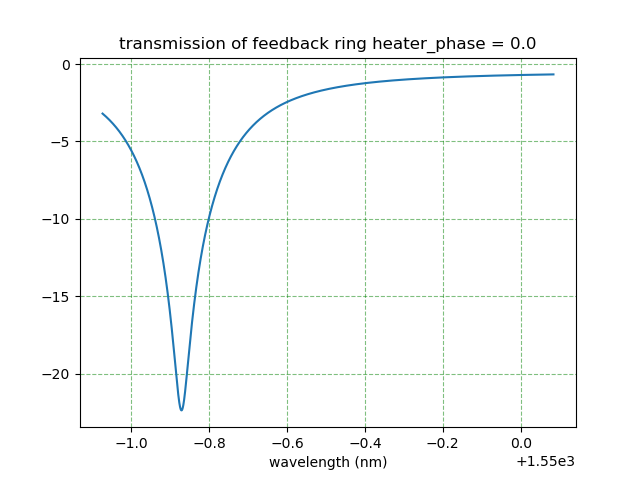
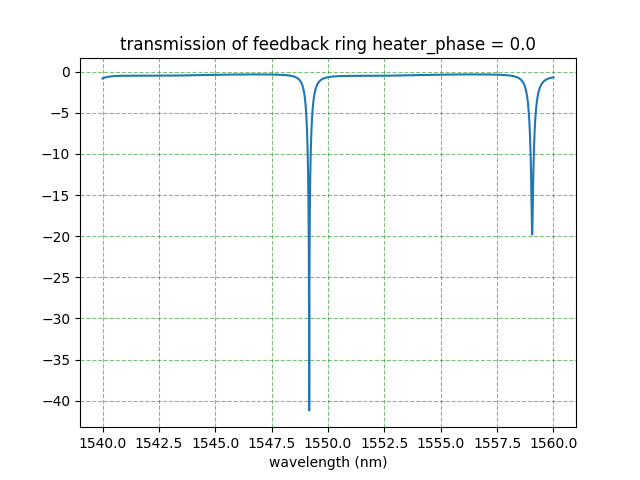
20250724

diff --git a/ring_with_mzm.py b/ring_with_mzm.py
@@ -33,10 +33,9 @@ ng = 3.98
 lambda0 = 1.549505
 cavity__length = 2*np.pi*5/2 +15 + 2*np.pi*5/2 + 15
 
-t1 = 0.94
-t2 = t1/0.95
 
-t1 = 0.94
+t1 = 0.9493268
+t1 = 0.951082
 t2 = t1
 r1 = 5
 
@@ -71,7 +70,7 @@ Q = np.real( ( (2*(1/tau_e1 + 1/tau_e2) + 2/tau_o  )/(w0) )**(-1) )
 
 
 wl = np.linspace(lambda0-lambda0/Q,lambda0+lambda0/Q,10000)
-# wl = np.linspace(1.54,1.56,10000)
+wl = np.linspace(1.54,1.56,10000)
 # wl = np.linspace(1.545,1.555,100000)
 w = 2*np.pi*c/wl
 n = neff_dispersion(n0,wl,ng,1.55)
@@ -89,7 +88,7 @@ print("FSR of Ring = ",1550**2/(ng*1000*abs(L2+L1))," nm")
 
 ploting(wl*1000,dB(abs(t)**2),x_label="wavelength (nm)",title="transmission of feedback ring heater_phase = "+str(0*180/np.pi),filename="transmission of feedback ring")
 
-heater_phase = np.array([0,80,110,150,180,210,249,300])*np.pi/180
+heater_phase = np.linspace(0,360,10)*np.pi/180
 plt.figure()
 for i in range(len(heater_phase)):
     t = output(t1,k1,t2,k2,q1,q2,q3,phi1,phi2,phi3+heater_phase[i])
@@ -117,7 +116,7 @@ print("t2 = ",t2)
 
 print("linewidth = ",(2*np.pi*c*1e3/(w0)**2)*w0/Q," nm")
 print("f_opt (optical bandwidth) = ",c/1.55/Q/1e9," GHz")
-heater_phase = 150*np.pi/180
+heater_phase = 0*np.pi/180
 dn = 9.670417578102628e-05
 V = np.array([0,0.5,1,1.5,2])
 phi2 = np.array([n*2*np.pi/wl*La,     (n+dn/2)*2*np.pi/wl*La,\
